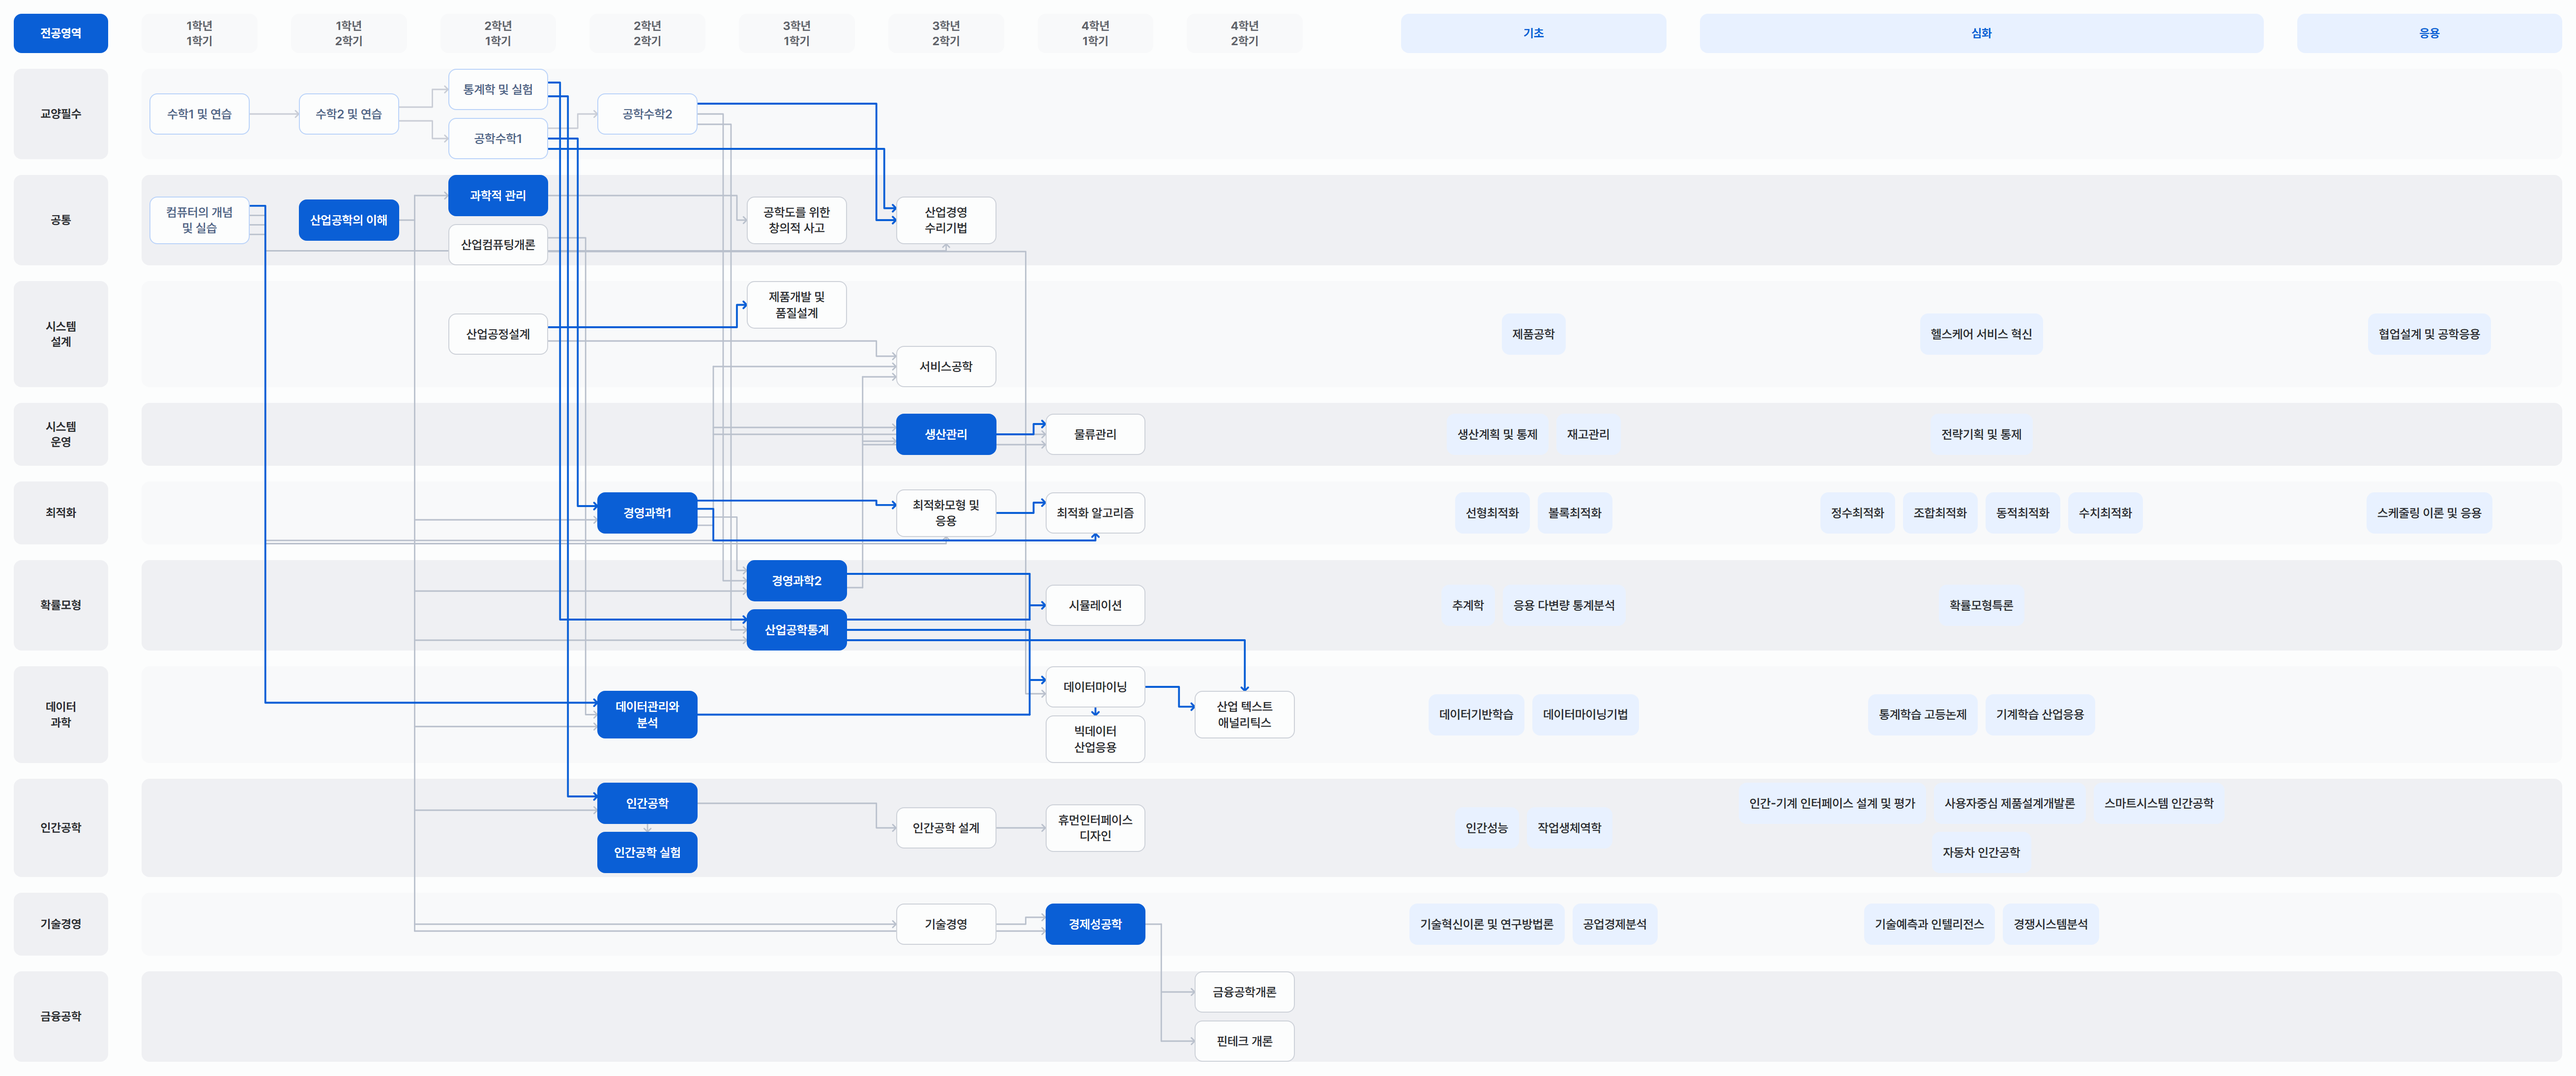
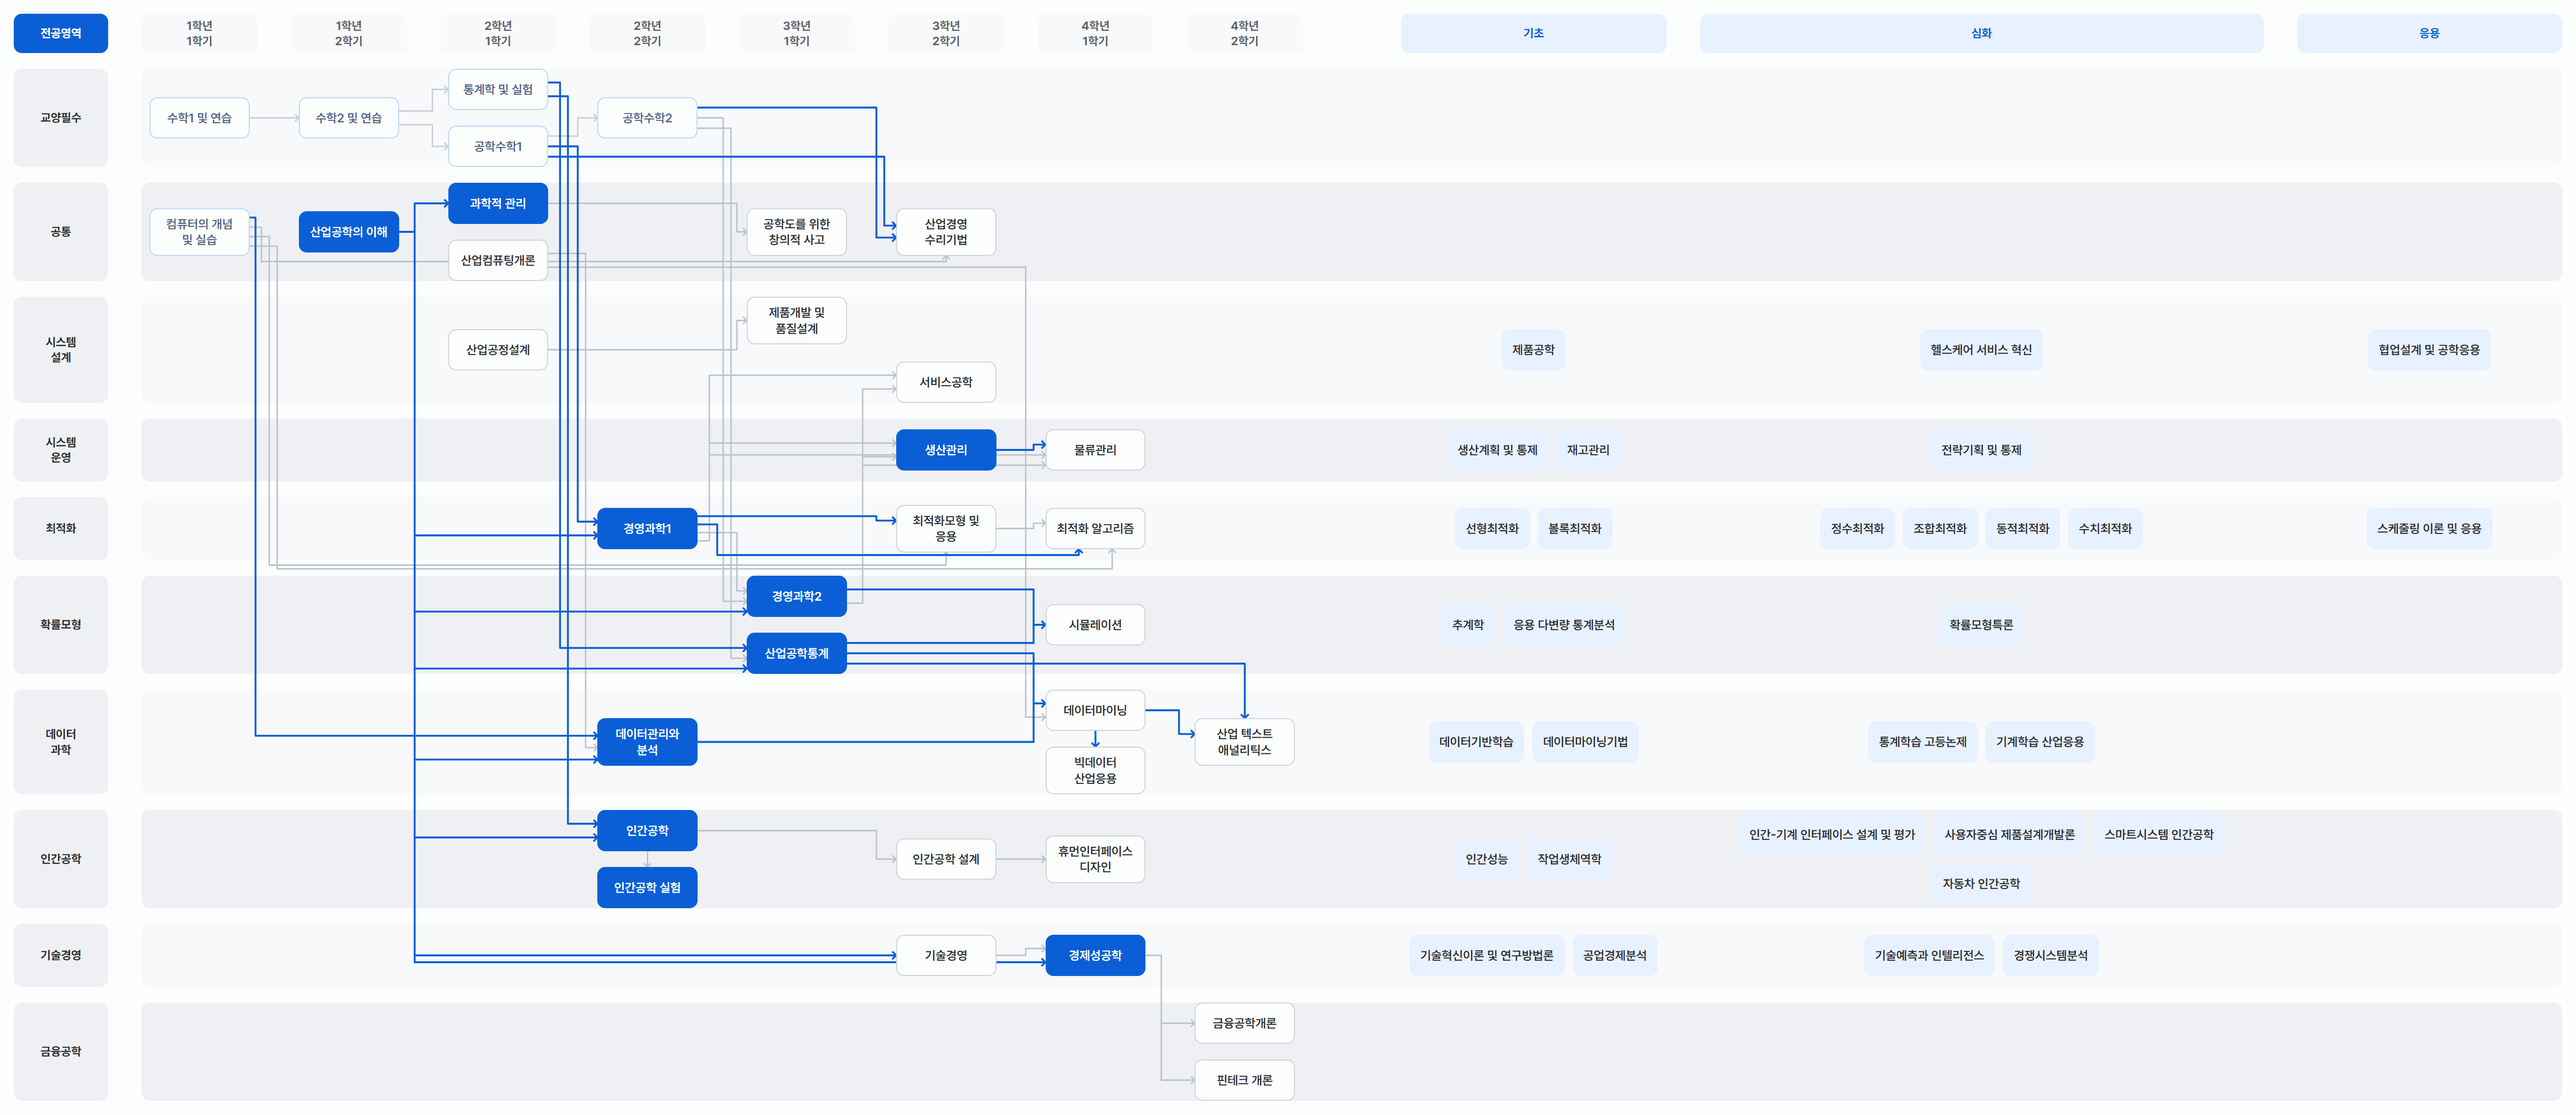
Refine roadmap prerequisites: 산업공학의 이해 links, drop/soften some edges
- 산업공학의 이해 → each area's first course is now required (blue), incl. 기술경영
- Remove 산업공정설계 → 서비스공학
- 산업공정설계 → 제품개발 및 품질설계: required → recommended
- 최적화모형 및 응용 → 최적화 알고리즘: required → recommended
- Regenerate static roadmap images

diff --git a/roadmap.html b/roadmap.html
@@ -1095,10 +1095,10 @@ const specs=[
   {k:"link",from:"comp",to:"dma",t:"req",mid:"src"},
   {k:"link",from:"stat",to:"iestat",t:"req",mid:"src"},
   {k:"link",from:"stat",to:"ergo",t:"req",mid:"src"},
-  {k:"link",from:"ipd",to:"pqd",t:"req"},
+  {k:"link",from:"ipd",to:"pqd",t:"rec"},
   {k:"link",from:"prod",to:"logi",t:"req"},
   {k:"link",from:"or1",to:"optm",t:"req"},
-  {k:"link",from:"optm",to:"opta",t:"req"},
+  {k:"link",from:"optm",to:"opta",t:"rec"},
   {k:"link",from:"or1",to:"opta",t:"req",route:"under"},
   {k:"merge",from:["or2","iestat"],to:"sim",t:"req"},
   {k:"merge",from:["dma","iestat"],to:"dmine",t:"req"},
@@ -1121,12 +1121,11 @@ const specs=[
   {k:"link",from:"comp",to:"imrm",t:"rec",route:"under"},
   {k:"link",from:"comp",to:"optm",t:"rec",route:"under"},
   {k:"link",from:"comp",to:"opta",t:"rec",route:"under"},
-  {k:"link",from:"ipd",to:"svc",t:"rec"},
   {k:"branch",from:"or1",to:["svc","prod","logi"],t:"rec"},
   {k:"branch",from:"or2",to:["svc","prod","logi"],t:"rec"},
 
-  /* 산업공학의 이해 → 각 영역 첫 과목 (회색, 교수 피드백) */
-  {k:"branch",from:"ieintro",to:["scimgmt","or1","or2","iestat","dma","ergo","techm","econ"],t:"rec"}
+  /* 산업공학의 이해 → 각 영역 첫 과목 (필수, 파랑) */
+  {k:"branch",from:"ieintro",to:["scimgmt","or1","or2","iestat","dma","ergo","techm","econ"],t:"req"}
 ];
 const SVG_NS="http://www.w3.org/2000/svg", OFF=16;
 
